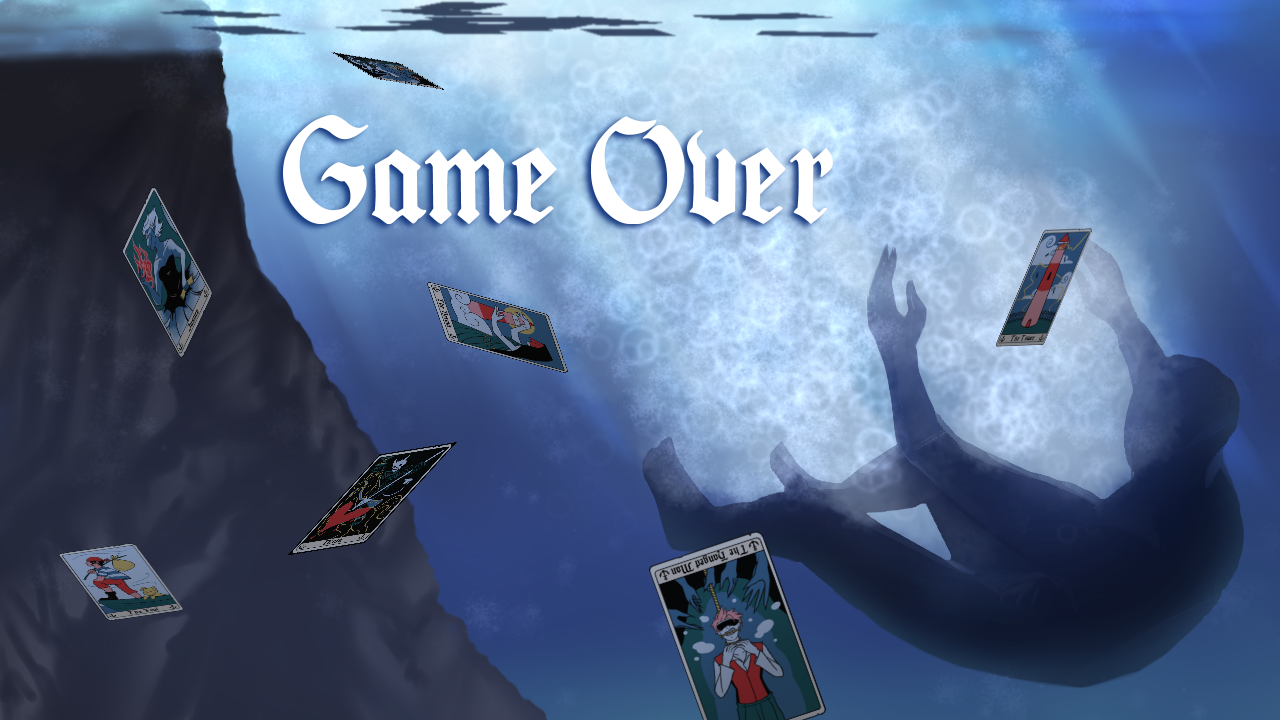
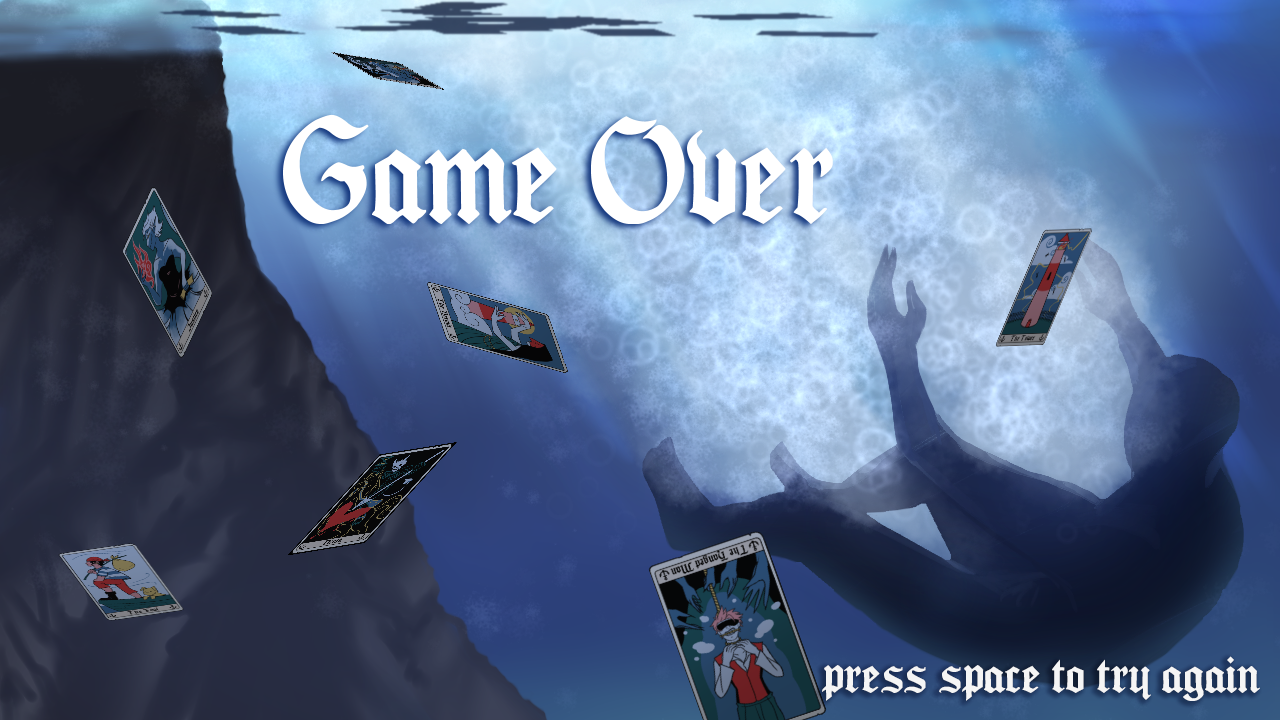
transitions

Changed region(s): [[0.625, 0.9167, 1.0, 0.9778]]

diff --git a/src/scenes/End/Lose.js b/src/scenes/End/Lose.js
@@ -4,18 +4,19 @@ class Lose extends Phaser.Scene {
     }
 
     preload(){
-        // images
         this.load.image('gameover', './assets/end/gameover.png');
+        this.load.audio('cellar_music', './assets/sfx/theLighthouse_underwater.wav');
     }
 
     create() { 
         /////////////////////////////////////////////////////////////////////////////////////////////////////////
+        this.cameras.main.fadeIn(1000, 0, 0, 0)
         // place tile sprite
         this.bg = this.add.tileSprite(0, 0, 1280, 720, 'gameover').setOrigin(0, 0); 
 
         // music
-        this.cellarBGM = this.sound.add('cellar_music', {volume: 0.1, loop: true});
-        this.cellarBGM.play();
+        this.loseBGM = this.sound.add('cellar_music', {volume: 0.1, loop: true});
+        this.loseBGM.play();
 
         /////////////////////////////////////////////////////////////////////////////////////////////////////////
         // borders
@@ -26,6 +27,8 @@ class Lose extends Phaser.Scene {
     }
     
     update() {
-        //return to puzzle 5 loading room to try again
+        this.input.keyboard.on('keydown-SPACE', () => {
+            this.scene.start("loadingNorth"); 
+		});
     }
 }

diff --git a/src/scenes/Lookout/LookoutSouth.js b/src/scenes/Lookout/LookoutSouth.js
@@ -92,7 +92,7 @@ class LookoutSouth extends Phaser.Scene {
         this.penHit.setVisible(false);
 
         // pen anim
-        this.anims.create({
+        this.swing = this.anims.create({
             key: 'swing',
             frames: this.anims.generateFrameNumbers('swing', { start: 0, end: 6, first: 0}),
             frameRate: 5,
@@ -173,11 +173,13 @@ class LookoutSouth extends Phaser.Scene {
 
         /////////////////////////////////////////////////////////////////////////////////////////////////////////
         // pendulum anim
-        this.penHit.on('pointerdown', (pointer) => {
-            this.animOn = 1;
-            this.add.sprite(875, 220, 'hitbox').play('swing');
-            this.pendulum.setVisible(false);
-        });
+        if (!this.swing.isPlaying){
+            this.penHit.on('pointerdown', (pointer) => {
+                this.animOn = 1;
+                this.add.sprite(875, 220, 'hitbox').play('swing');
+                this.pendulum.setVisible(false);
+            });
+        }
 
         /////////////////////////////////////////////////////////////////////////////////////////////////////////
         // text timers

diff --git a/src/main.js b/src/main.js
@@ -2,14 +2,14 @@ let config = {
     type: Phaser.CANVAS,
     width: 1280,
     height: 720,
-    scene: [ Menu, Intro, Instruction, Spread1, Inventory, 
+    scene: [ Menu, Intro, Lose, Win, Instruction, Spread1, Inventory, 
             IslandNorth, IslandWest, IslandEast, IslandSouth, 
             Spread2, CellarNorth, CellarWest, CellarEast, CellarSouth, 
             Spread3, MainNorth, MainWest, MainEast, MainSouth, Clock, 
             Spread4, LookoutNorth, LookoutWest, LookoutEast, LookoutSouth, Scales, 
             LoadingNorth, LoadingSouth, 
             Spread5, Inventory7, RitualNorth, Pentagram, Bookshelf, RitualWest, Closet, RitualEast, Cabinet, RitualSouth,
-            Spread6, Lose, Win, ClownNorth, ClownSouth, ClownEast, ClownWest],
+            Spread6, ClownNorth, ClownSouth, ClownEast, ClownWest],
   }
 
 let game = new Phaser.Game(config);

diff --git a/src/scenes/Menu.js b/src/scenes/Menu.js
@@ -87,13 +87,21 @@ class Menu extends Phaser.Scene {
         // change scenes
         this.input.keyboard.on('keydown-SPACE', () => {
 			this.sound.play("CrashingWaves");
-            this.scene.start("Intro"); 
+            this.cameras.main.fadeOut(1000, 0, 0, 0);
+            this.cameras.main.once(Phaser.Cameras.Scene2D.Events.FADE_OUT_COMPLETE, (cam, effect) => {
+            this.time.delayedCall(1000, () => {
+                    this.scene.start('Intro');
+                });
+            }); 
 		});
         
         // TAKE OUT THIS TIME, SHAINA!!!!!
         // delete
         this.input.keyboard.on('keydown-Z', () => {
             this.scene.start("loadingNorth"); 
+		});
+        this.input.keyboard.on('keydown-X', () => {
+            this.scene.start("endLose"); 
 		});
     }
 }

diff --git a/src/scenes/Clown/Password.js b/src/scenes/Clown/Password.js
@@ -1,16 +1,16 @@
 class Password extends Phaser.Scene {
     constructor() {
-        super("Password");
+        super("password");
     }
 
     preload(){
-        this.load.image('', './assets/transitions/velvetbg.png');
+        this.load.image('hi', './assets/blkbg.png');
     }
 
     create() { 
         /////////////////////////////////////////////////////////////////////////////////////////////////////////
         // place tile sprite
-        this.bg = this.add.tileSprite(0, 0, 1280, 720, '').setOrigin(0, 0); 
+        this.bruhhh = this.add.tileSprite(0, 0, 1280, 720, 'hi').setOrigin(0, 0); 
 
         //add text: enter password, itll be found at the top of the tower .... something something reference humbug story book
         //text enter box

diff --git a/src/scenes/Intro.js b/src/scenes/Intro.js
@@ -11,6 +11,7 @@ class Intro extends Phaser.Scene {
 
     create() {
         /////////////////////////////////////////////////////////////////////////////////////////////////////////
+        this.cameras.main.fadeIn(1000, 0, 0, 0)
         // place tile sprites
         this.bg = this.add.tileSprite(0, 0, 1280, 720, 'blkbg').setOrigin(0, 0); 
         this.ione = this.add.sprite(300,360, 'hitbox');

diff --git a/src/scenes/Ritual/Pentagram.js b/src/scenes/Ritual/Pentagram.js
@@ -361,6 +361,10 @@ class Pentagram extends Phaser.Scene {
                 this.val = this.int/200;
                 this.dead.alpha = this.val;
                 this.dead.setVisible(true);
+
+                if(this.dead.alpha == 1){
+                    this.scene.start('endLose');
+                }
             }
             else {
                 console.log("else")

diff --git a/src/scenes/Instruction.js b/src/scenes/Instruction.js
@@ -58,7 +58,7 @@ class Instruction extends Phaser.Scene {
         }
         if(this.texttimer == 0){
             this.clownery.on('pointerdown', (pointer) => {
-            this.scene.start("clownNorth");
+            this.scene.start("password");
             });
             this.texttimer += 1;
         }
